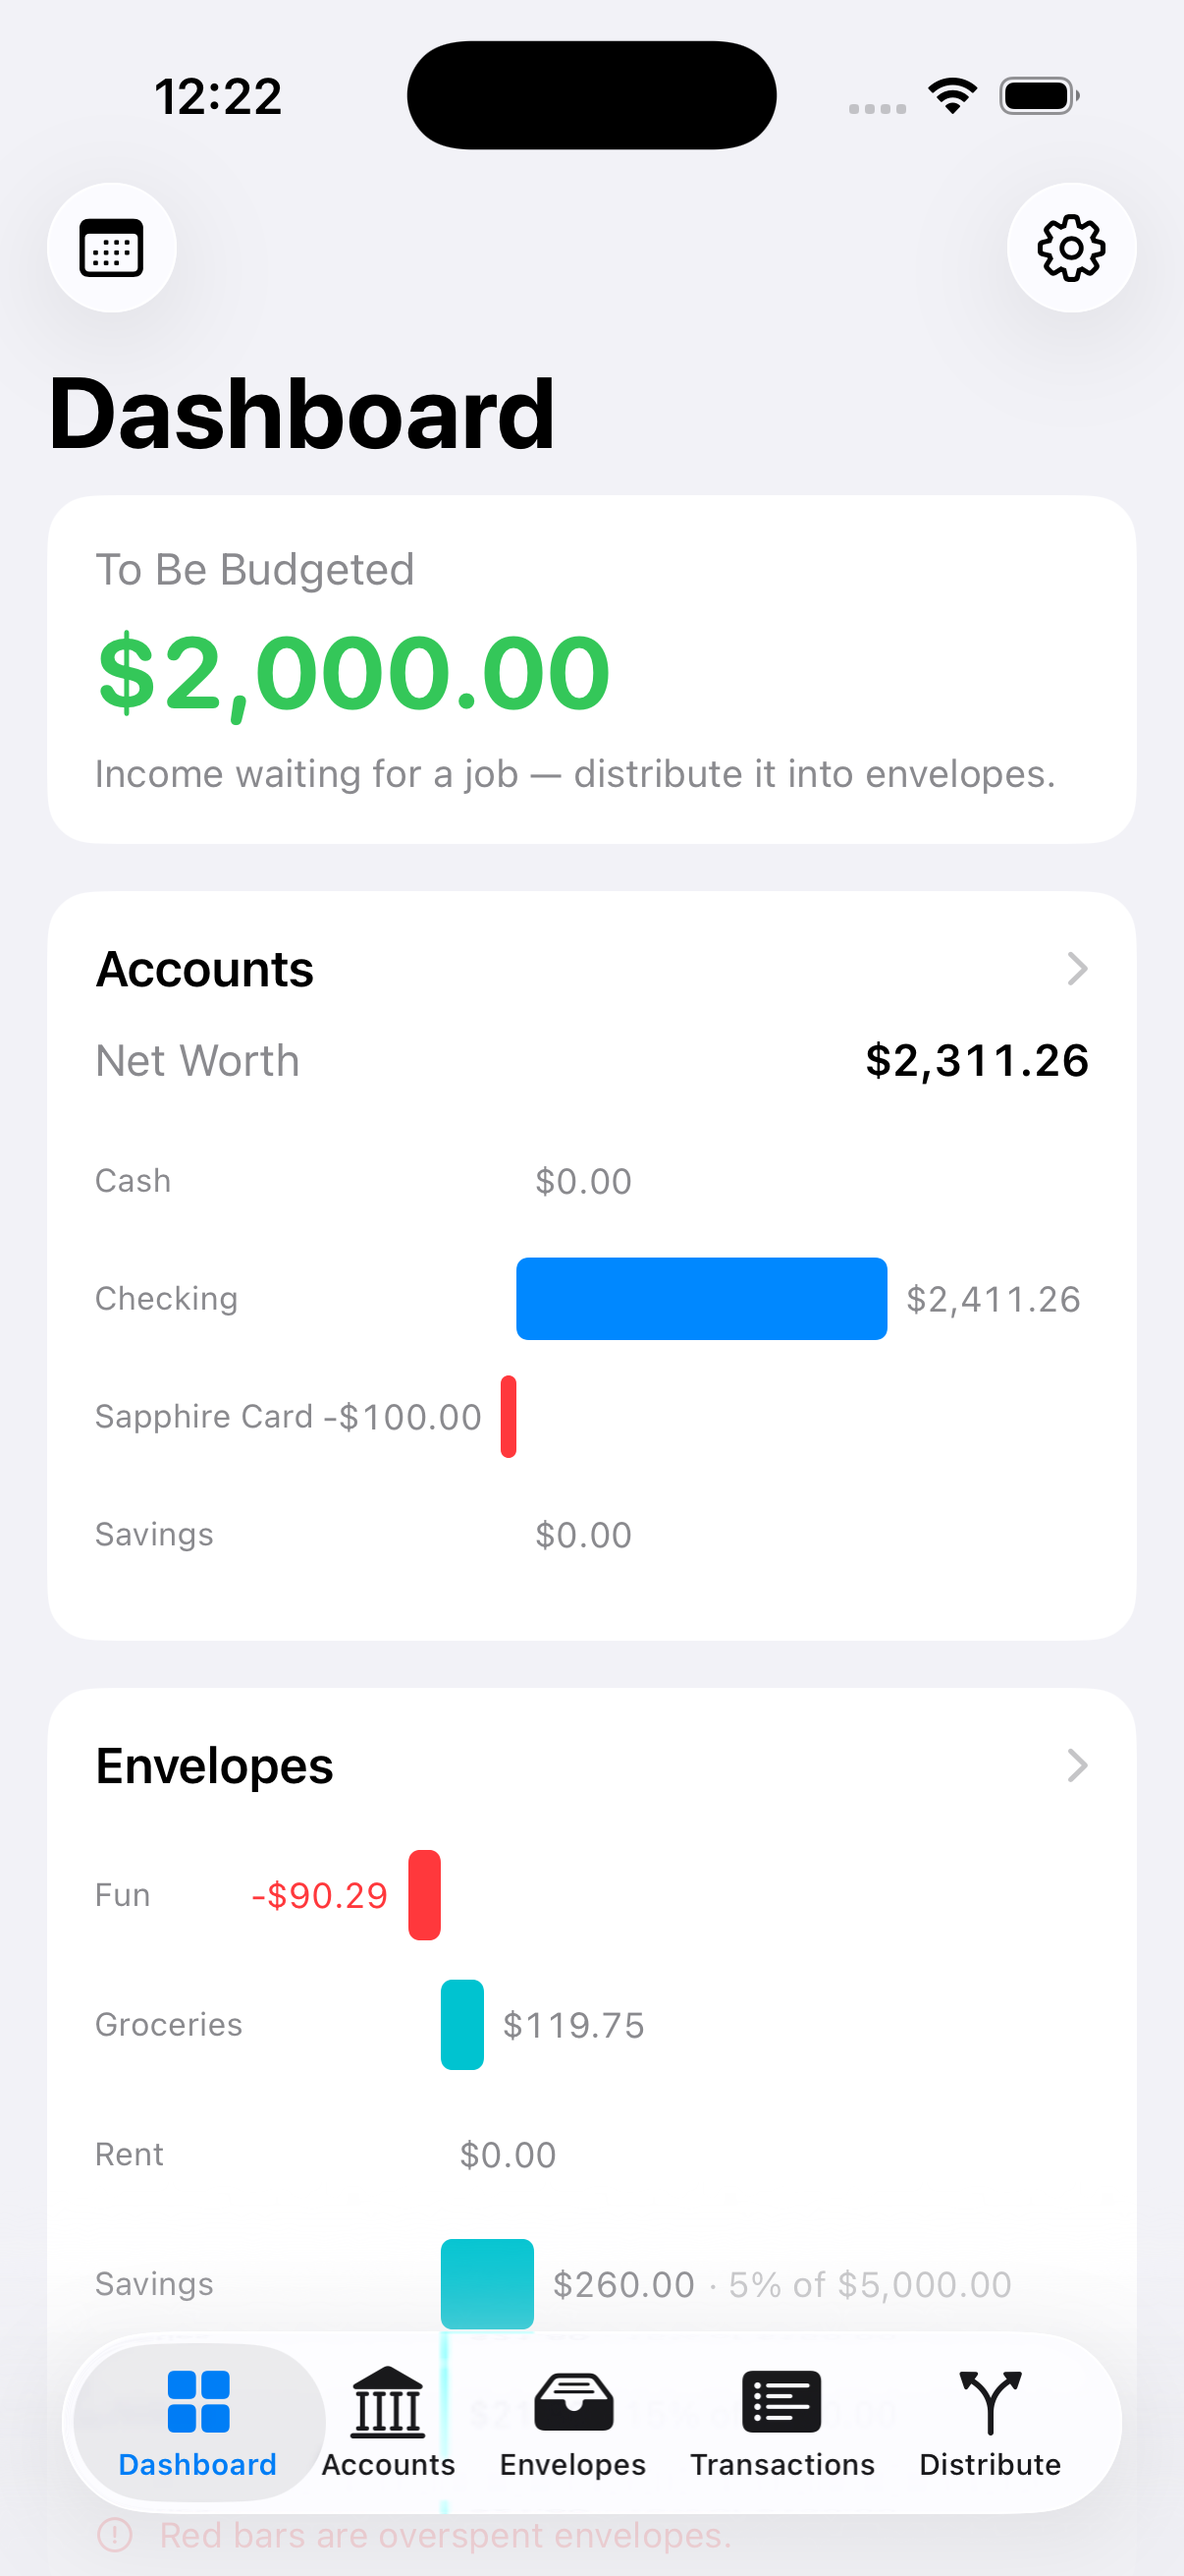
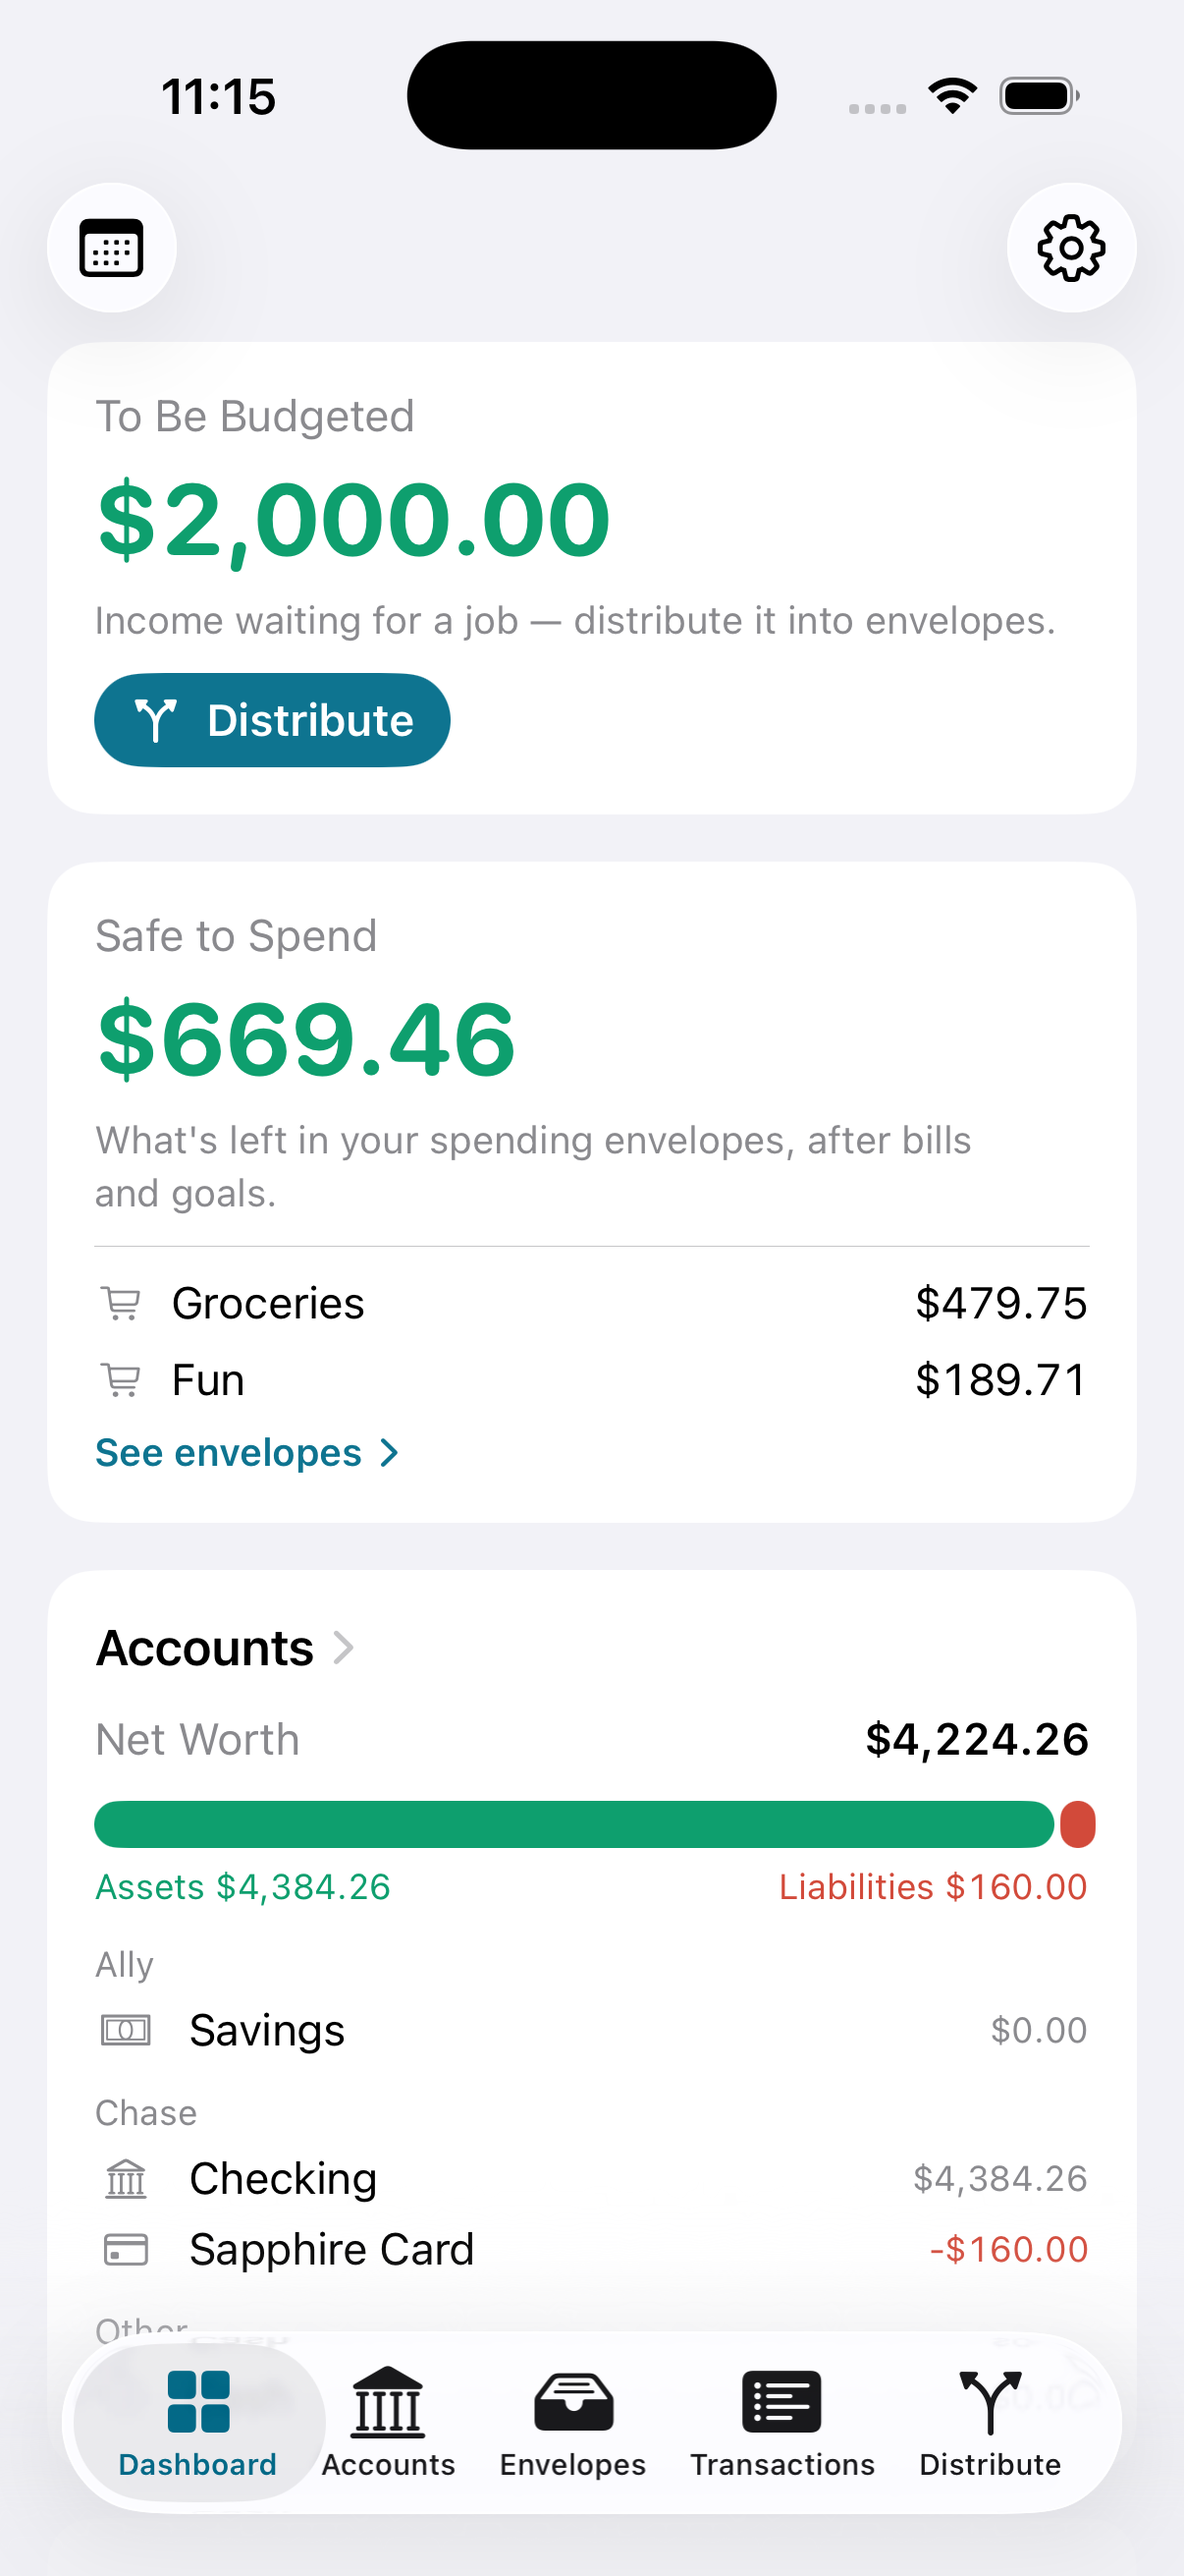
docs: refresh README for the current develop UI
Bring the README in line with what's on develop:
- New screenshots (water theme): Dashboard, Distribute (the "where your money
  goes" Sankey), and Accounts; drop the stale net-worth / cash-flow images.
- Note the Distribute flow diagram + distribution history, add Safe to Spend,
  correct the Dashboard card list (envelopes as a donut, accounts as an
  assets-vs-liabilities bar, chart-type toggles now only on Cash Flow /
  Spending), and mention the light/dark water-inspired theme.

diff --git a/README.md b/README.md
@@ -10,8 +10,8 @@ services — private by construction.
 
 <p>
   <img src="Documentation/screenshots/dashboard.png"  width="30%" alt="Dashboard" />
-  <img src="Documentation/screenshots/net-worth.png"  width="30%" alt="Net worth trend" />
-  <img src="Documentation/screenshots/cash-flow.png"  width="30%" alt="Cash flow" />
+  <img src="Documentation/screenshots/distribute.png" width="30%" alt="Distribute a paycheck — where your money goes" />
+  <img src="Documentation/screenshots/accounts.png"   width="30%" alt="Accounts and net worth" />
 </p>
 
 ## Features
@@ -27,12 +27,18 @@ services — private by construction.
 - **Transactions** — record income and expenses (and transfers), edit or delete
   them, and filter by date range and envelope.
 - **Distribute Paycheck** — the signature flow: sweep unbudgeted income into
-  envelopes by their rules, review and adjust the split, then confirm.
-- **Dashboard** — a customizable set of cards: **To Be Budgeted**, accounts,
-  envelopes, cash flow, spending by category, and a net-worth trend. **Drag to
-  reorder** cards and **choose each card's chart type** (e.g. bars vs. donut).
+  envelopes by their rules, review and adjust the split, then confirm. A
+  **"where your money goes"** flow diagram and a log of past distributions show
+  where each paycheck landed.
+- **Safe to Spend** — what's left across your day-to-day *spending* envelopes,
+  once bills and savings goals are set aside.
+- **Dashboard** — a customizable set of cards: **To Be Budgeted**, **Safe to
+  Spend**, accounts (assets-vs-liabilities bar), envelopes (donut), cash flow,
+  spending by category, and a net-worth trend. **Drag to reorder** cards, and
+  switch the cash-flow and spending charts between chart types.
 - **Spending Calendar** — a month view of daily net cash flow; tap a day for its
   income, spending, and transactions.
+- **Light & dark** — a cohesive, water-inspired theme throughout.
 
 ## How it works
 
